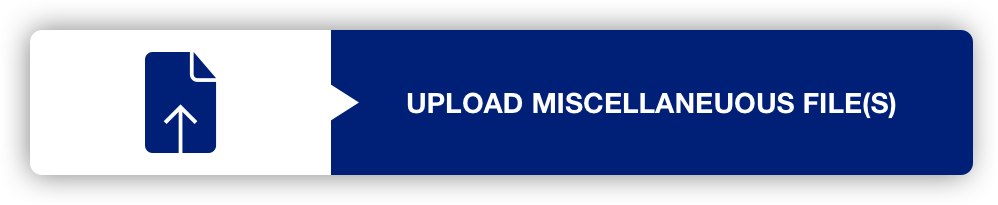
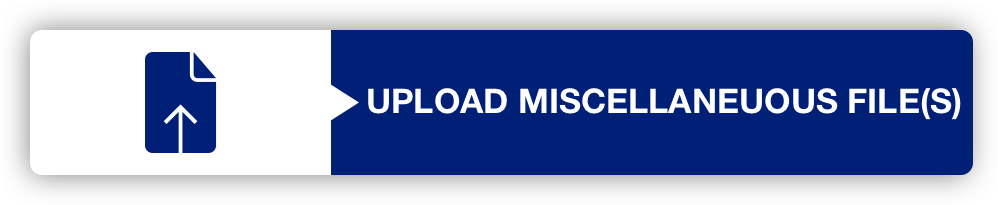
Fixed a few images in the File Upload page.

Changed region(s): [[0.3417, 0.4098, 0.9629, 0.5854]]

diff --git a/Client/src/app/pages/file-upload/file-upload.component.html b/Client/src/app/pages/file-upload/file-upload.component.html
@@ -31,7 +31,7 @@
                         <!-- File Upload For CSV -->
                         <div class="image-upload">
                             <label for="file-input-csv">
-                                <img src="assets/img/file-uploads/Button1.png" style="pointer-events: none; width: 300px; " />
+                                <img src="assets/img/file-uploads/Button1.png" style="pointer-events: none; width: 400px; " />
                             </label>
                             <input id="file-input-csv" accept=".csv" type="file" ng2FileSelect [uploader]="uploaderCsv" multiple />
                         </div>
@@ -40,7 +40,7 @@
                         <!-- File Upload For XLSX  -->
                         <div class="image-upload">
                             <label for="file-input-excel">
-                                <img src="assets/img/Payment_File_Upload.jpg" style="pointer-events: none; width: 300px; " />
+                                <img src="assets/img/file-uploads/Button2.png" style="pointer-events: none; width: 400px; " />
                             </label>
                             <input id="file-input-excel" accept=".xlsx" type="file" ng2FileSelect [uploader]="uploaderExcel" multiple />
                         </div>
@@ -49,7 +49,7 @@
                         <!-- File Upload For XLSX  -->
                         <div class="image-upload">
                             <label for="file-input-misc">
-                                <img src="assets/img/Misc_File_Upload.png" style="pointer-events: none; width: 300px; " />
+                                <img src="assets/img/file-uploads/Button3.png" style="pointer-events: none; width: 400px; " />
                             </label>
                             <input id="file-input-misc" accept="*.*" type="file" ng2FileSelect [uploader]="uploaderMisc" multiple />
                         </div>
@@ -215,18 +215,28 @@
                                                 <strong>{{ file?.fileDate | date:"shortDate" }}</strong>
                                             </td>
                                             <td nowrap>
-                                                <button mat-raised-button *ngIf="file.fileType=='Payment Import' && !file.processed" type="button" color="purple" (click)="process(file)">
+                                                <!-- TODO: Create a "Process Payments" button -->
+                                                <!-- <button mat-raised-button *ngIf="file.fileType=='Payment Import' && !file.processed" type="button" color="purple" (click)="process(file)">
                                                     <span class="glyphicon glyphicon-import"></span> Import Payments
-                                                </button>
-                                                <button mat-raised-button *ngIf="file.fileType=='Laker Import' && !file.processed" type="button" color="purple" (click)="importLaker(file)">
+                                                </button> -->
+                                                <span *ngIf="file.fileType=='Laker Import' && !file.processed" (click)="importLaker(file)">
+                                                  <img src="assets/img/file-uploads/Button6.png" style="pointer-events: none; width: 130px;"/>
+                                                </span>
+                                                <!-- <button mat-raised-button *ngIf="file.fileType=='Laker Import' && !file.processed" type="button" color="purple" (click)="importLaker(file)">
                                                     <span class="glyphicon glyphicon-import"></span> Import Laker File
-                                                </button>
-                                                <button mat-raised-button *ngIf="file.fileType=='Envision Import' && !file.processed" type="button" color="purple" (click)="importEnvision(file)">
+                                                </button> -->
+                                                <span *ngIf="file.fileType=='Envision Import' && !file.processed" (click)="importEnvision(file)">
+                                                  <img src="assets/img/file-uploads/Button5.png" style="pointer-events: none; width: 130px;"/>
+                                                </span>
+                                                <!-- <button mat-raised-button *ngIf="file.fileType=='Envision Import' && !file.processed" type="button" color="purple" (click)="importEnvision(file)">
                                                     <span class="glyphicon glyphicon-import"></span> Process Envision File
-                                                </button>
-                                                <button mat-raised-button type="button" color="danger" (click)="deleteFile(file)">
+                                                </button> -->
+                                                <span (click)="deleteFile(file)">
+                                                  <img src="assets/img/file-uploads/Button4.png" style="pointer-events: none; width: 130px;"/>
+                                                </span>
+                                                <!-- <button mat-raised-button type="button" color="danger" (click)="deleteFile(file)">
                                                     <span class="glyphicon glyphicon-trash"></span> Delete
-                                                </button>
+                                                </button> -->
                                             </td>
                                         </tr>
                                     </tbody>
